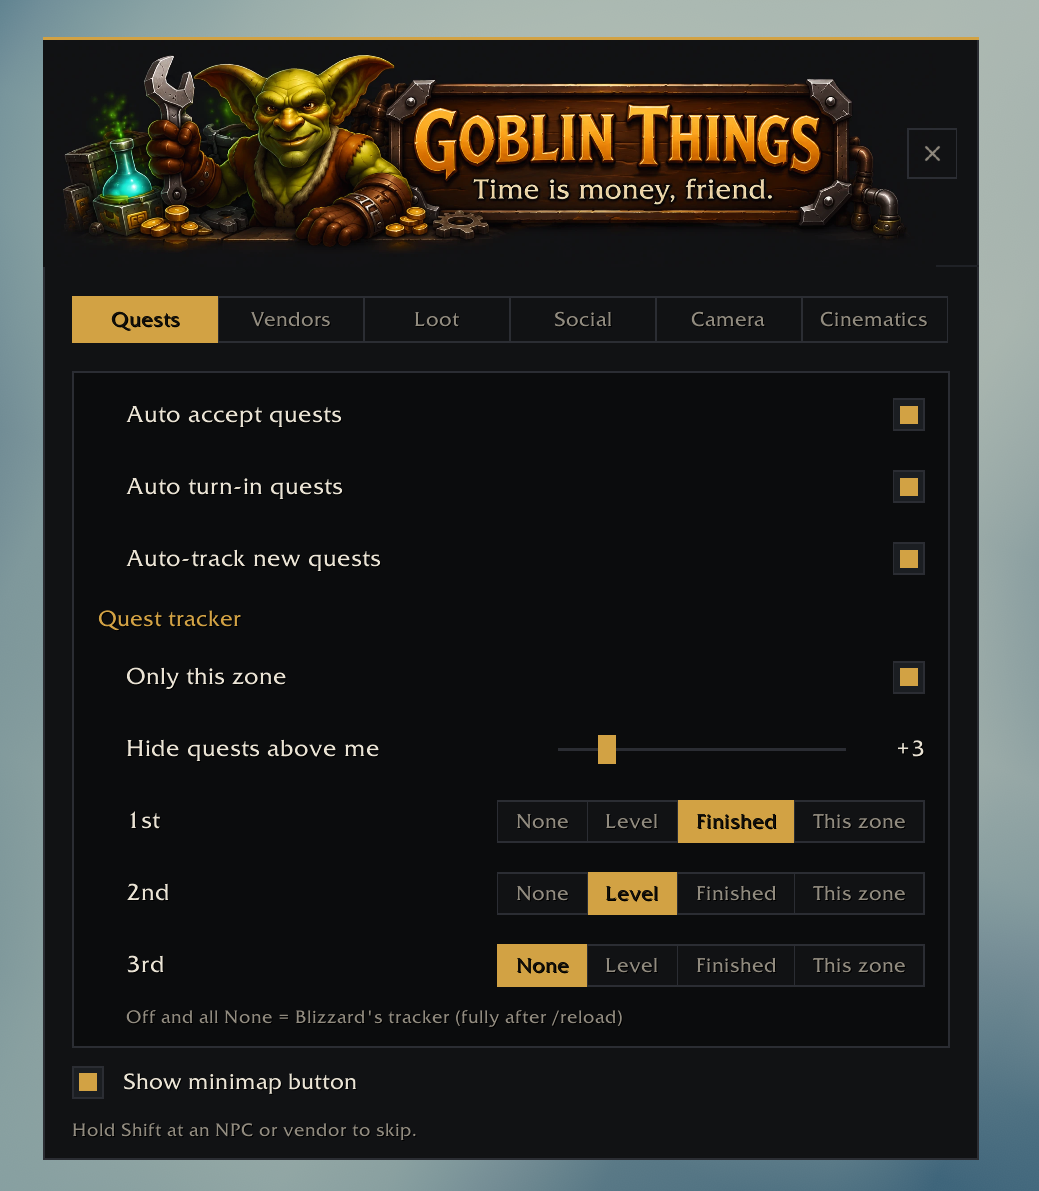
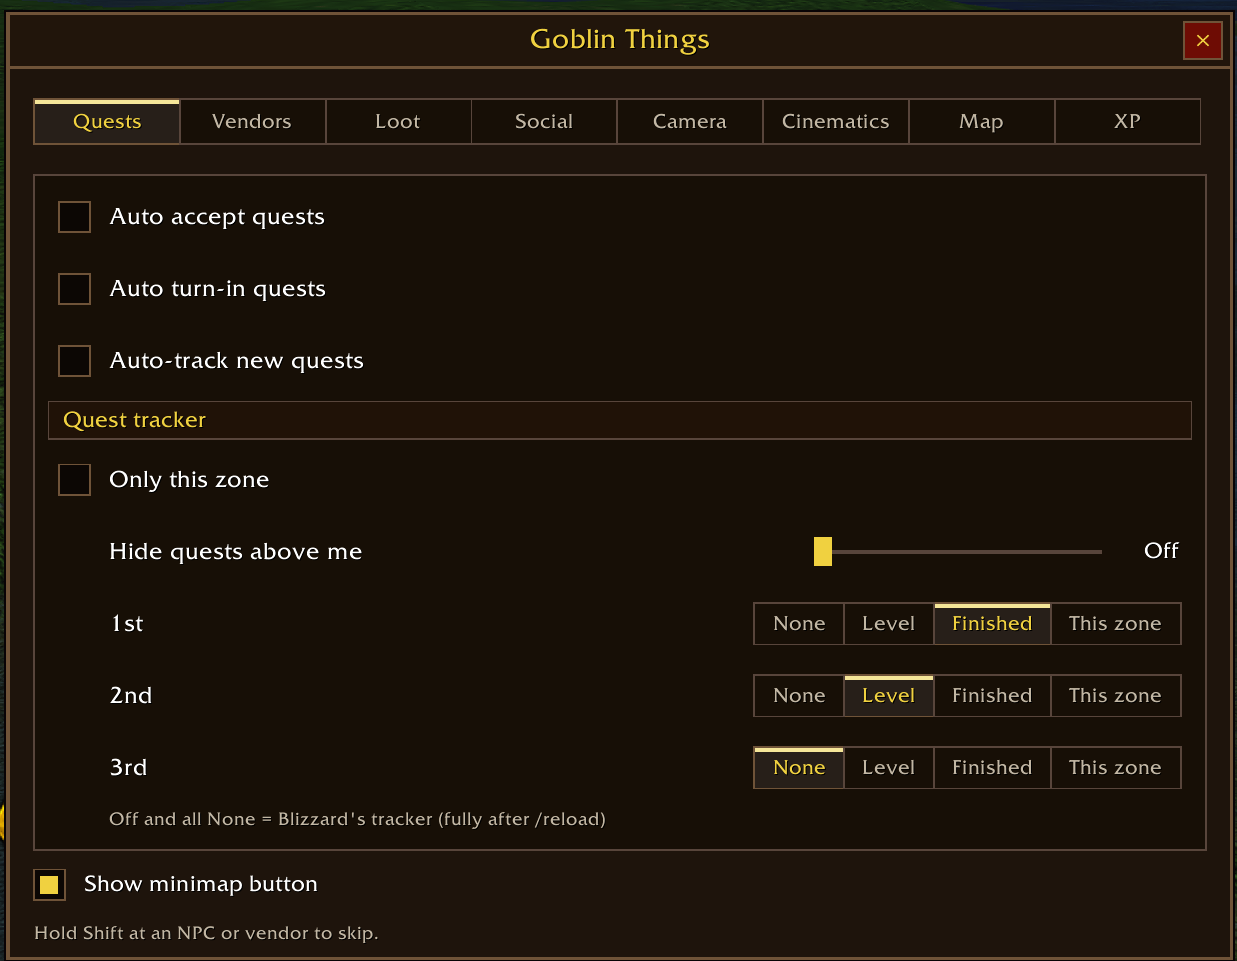
Docs: tonight's screenshots: the Quests tab in the new look, the Map tab and the map readout

diff --git a/README.md b/README.md
@@ -35,12 +35,16 @@ and forget them.
 Hold **Shift** while talking to an NPC, a vendor or a trainer to skip everything that visit. Hold it on a
 corpse to get the normal loot window. Everything else is one click in the window.
 
-![The Goblin Things window on its Quests tab: the auto-quest checks, Only this zone, the Hide quests above me slider at +3, and the three tracker sort tiers](https://raw.githubusercontent.com/CoffeeAndLoot/goblinthings/master/images/quests.png)
+![The Goblin Things window on its Quests tab, in the game's own browns and gold: the auto-quest checks, Only this zone, the Hide quests above me slider, and the three tracker sort tiers](https://raw.githubusercontent.com/CoffeeAndLoot/goblinthings/master/images/quests.png)
 
 <p>
 <img src="https://raw.githubusercontent.com/CoffeeAndLoot/goblinthings/master/images/vendors.png" width="49%" alt="The Vendors tab: Auto sell junk, Auto repair and Auto train">
 <img src="https://raw.githubusercontent.com/CoffeeAndLoot/goblinthings/master/images/social.png" width="49%" alt="The Social tab: decline duels and guild invites, accept invites from guild or friends, accept summons, guild login alerts">
 </p>
+
+![The Map tab: Zone levels and fishing, Herbs, Ore, Fish list and Skins on the map](https://raw.githubusercontent.com/CoffeeAndLoot/goblinthings/master/images/map.png)
+
+![The world map's corner on Mount Hyjal: a card reading Level 60, Herbs 270-300, Ore 275-300 and Skins: Rugged, with the Skinning list open above it](https://raw.githubusercontent.com/CoffeeAndLoot/goblinthings/master/images/map-readout.png)
 
 ## Getting started
 

diff --git a/CLAUDE.md b/CLAUDE.md
@@ -76,8 +76,8 @@ Sibling of Goblin Flyout (`D:\GoblinFlyout`); the quest and vendor rules came fr
   So Wago never sees the README: when a switch was added or changed since the last tag, edit the Wago
   project's Summary and Description by hand (addons.wago.io/developers/projects/goblin-things/settings;
   Wago's API uploads versions only, docs.wago.io). The description is its own shorter Markdown version of
-  the README, so edit it in its style rather than pasting the README over it. Its banner and three tab
-  screenshots are the README's raw `master` URLs, so a replaced screenshot shows there on its own; a new
+  the README, so edit it in its style rather than pasting the README over it. Its banner and five
+  screenshots (three tabs, the Map tab, the map readout) are the README's raw `master` URLs, so a replaced screenshot shows there on its own; a new
   image file needs its own line.
 
 ## How it fits together
